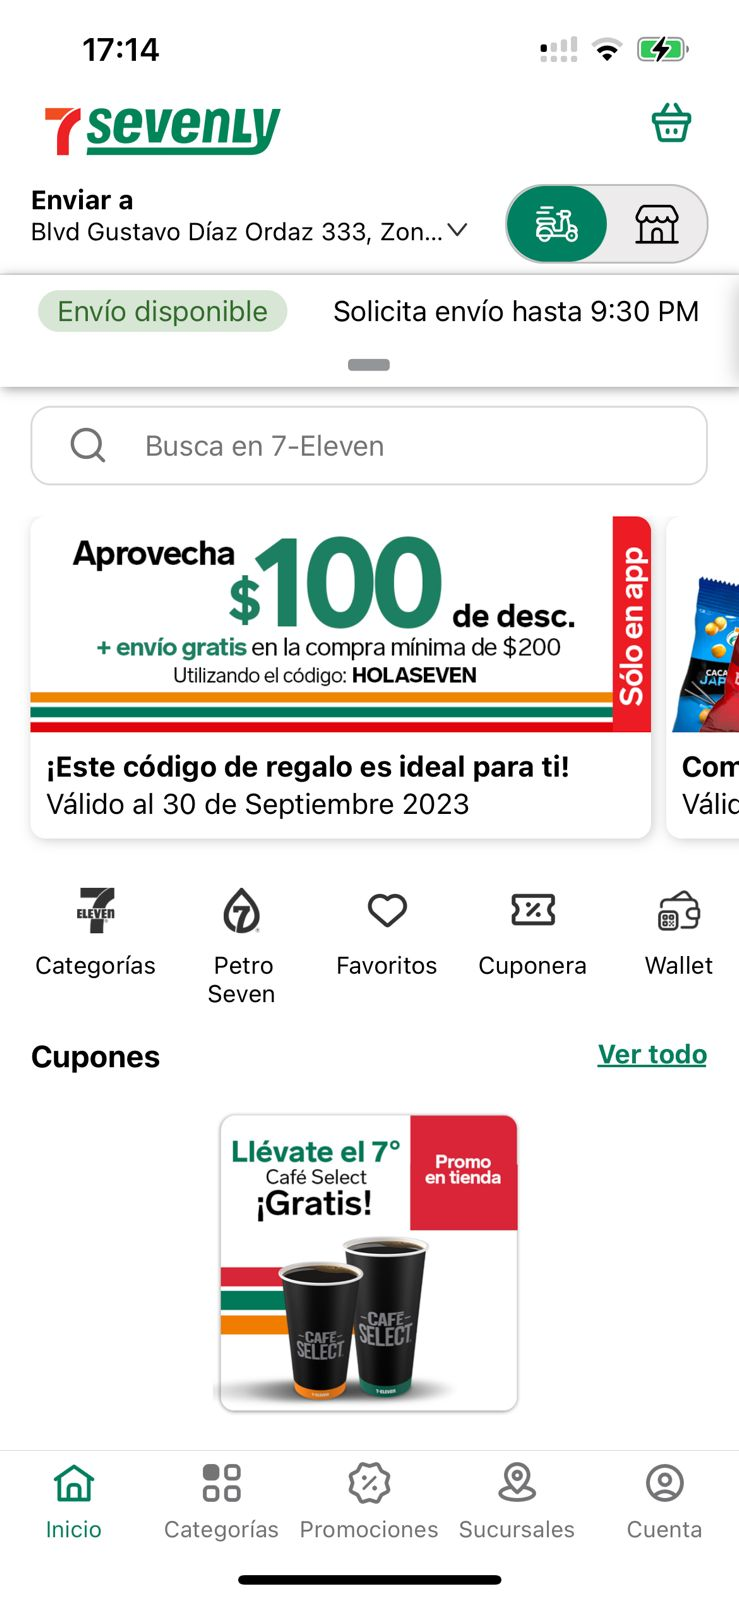
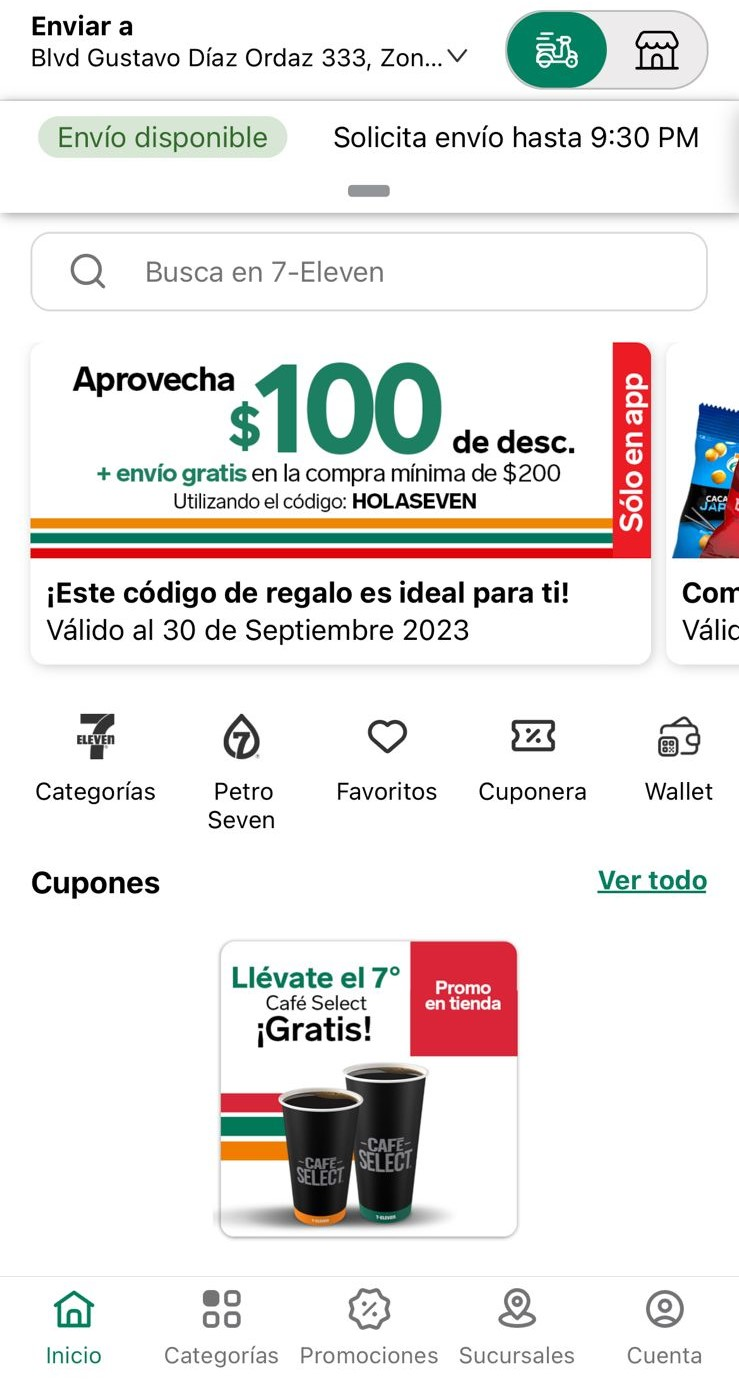
fixed background

diff --git a/src/Shared/Styles.ts b/src/Shared/Styles.ts
@@ -3,12 +3,12 @@ import { Grid } from "@mui/material";
 
 export const BackgroundImage = styled("img")(({ theme }) => ({
   position: "fixed",
-  top: 0,
+  top: "3.5rem",
   left: 0,
   width: "100%",
-  height: "110%",
+  height: "100%",
   backgroundImage: "url('./principal.jpeg')",
-  backgroundSize: "cover",
+  backgroundSize: "contain",
   backgroundPosition: "center",
   zIndex: "-1",
 }));

diff --git a/src/Components/AppBar.tsx b/src/Components/AppBar.tsx
@@ -20,6 +20,8 @@ const ButtonAppBar = () => {
         position="fixed"
         sx={{
           boxShadow: "none",
+          height: "3.5rem",
+          border: "none",
         }}
       >
         <Toolbar>
